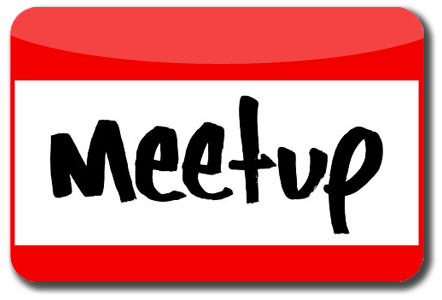
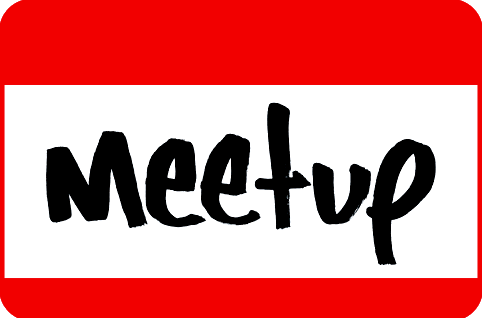
update

diff --git a/about.html b/about.html
@@ -16,13 +16,16 @@ header-img: "img/about.jpg"
   
  <p>Willst du auch einen Vortrag halten, dann schreibe uns unter AppliedRMunich [at] gmail [dot] com.</p>
   
+
+<p>
+Besuche uns auch auf meetup <a href="http://www.meetup.com/Applied-R-Munich/">
+<img src="img/meetup_ged.jpg" alt="Go to http://www.meetup.com/Applied-R-Munich/!" width="220">
+</a>
+</p> 
+
  <header>
  <h2>Ablauf von Applied R</h2>
  </header>
-  
-  <a href="http://www.meetup.com/Applied-R-Munich">
-<img src="img/meetup.png" alt="Visit us under www.meetup.com/Applied-R-Munich">
-</a>
 
  <p>Wir zielen an, dass die Veranstaltungen alle 4-6 Wochen stattfinden. Diese sollen jeweils ca. 90 Minuten dauern, wobei die erste Hälfte für die Vorstellung des Themas reserviert ist. Der zweite Teil soll einen Anwendungsteil beinhalten, in dem selbst programmiert werden kann. Hierfür sollen kleine Aufgaben, Fragen und Beispiele rund um das Thema bereit stehen. Sowohl die Folien der Präsentation, als auch der Code des zweiten Teils werden auf <a href="https://github.com/lmu-applied-r">GitHub</a> bereitgestellt. </p>
   

diff --git a/index.html b/index.html
@@ -20,9 +20,8 @@ description: 'Die R User Group in München <b> <font color="#880000"> <br> <a hr
 {% endfor %}
 
 <p>
-An image that is a link:
-<a href="http://www.w3schools.com">
-<img src="img/meetup.png" alt="Go to W3Schools!" width="42" height="42" border="0">
+Besuche uns auch auf meetup <a href="http://www.meetup.com/Applied-R-Munich/">
+<img src="img/meetup.png" alt="Go to http://www.meetup.com/Applied-R-Munich/!" width="420">
 </a>
 </p> 
 
